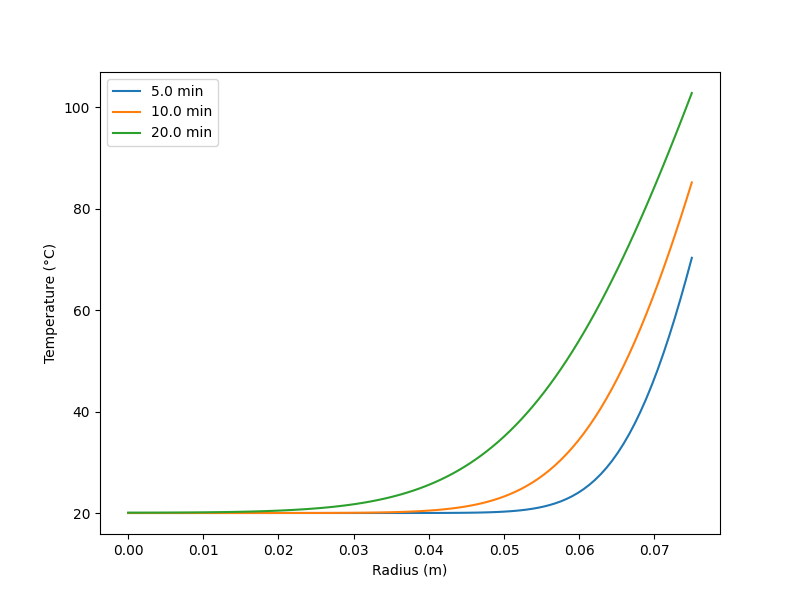
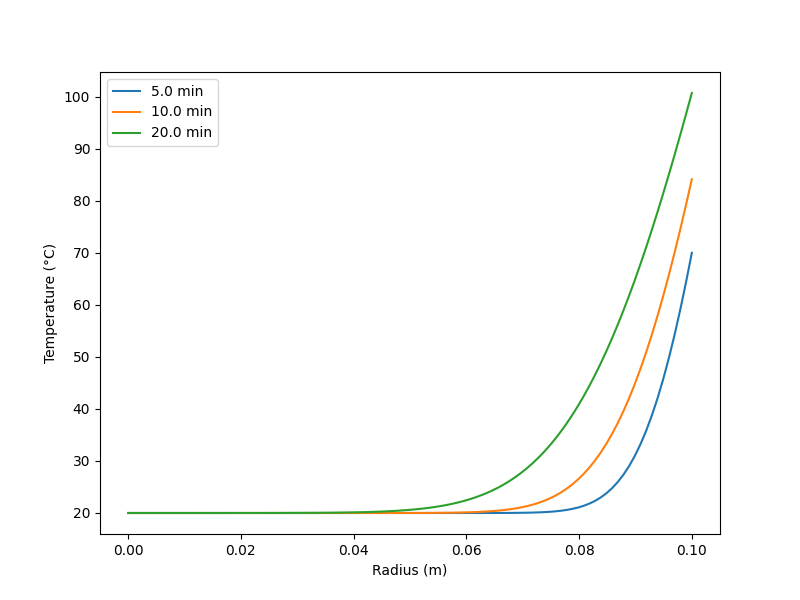
calculate

diff --git a/Lesson Seven/cal.py b/Lesson Seven/cal.py
@@ -11,11 +11,26 @@ alpha = k / (rho * c)  # 热扩散率
 R_list = [0.05, 0.075, 0.1]  # 鸡块半径 (m)
 Nr = 100     # 空间网格数
 dt = 0.1    # 时间步长 (秒)
-total_time = 1200  # 总模拟时间 (秒)
+total_time = 2000  # 总模拟时间 (秒)
 
 # 环境参数
 T_env = 180  # 环境温度 (°C)
 h = 25       # 对流换热系数 (W/m²·K)
+
+
+#configuration
+#半径范围
+config_R_list =[]
+config_R_list.append(0.06)
+config_R_list.append(0.08)
+config_R_list.append(0.12)
+config_R_list.append(0.14)
+config_R_list.append(0.16)
+config_R_list.append(0.18)
+config_R_list.extend(np.arange(0.20,1.0,0.05))
+#时间变化的R值
+selected_R = 0.05
+
 
 
 
@@ -24,6 +39,8 @@ def solve_heat_equation(R):
     r = np.linspace(0, R, Nr)
     T = np.ones(Nr) * 20 
     snapshots = {}
+    surface_temps = []  
+    time_points = []   
     
     for step in range(int(total_time/dt) + 1):
         t = step * dt  
@@ -36,22 +53,72 @@ def solve_heat_equation(R):
         T_new[0] = T_new[1]  
         T_new[-1] = (h * T_env * dr + k * T_new[-2]) / (h * dr + k)
         T = T_new
-        if t in [300, 600, 1200]:
+        surface_temps.append(T[-1])  
+        time_points.append(t)
+        
+        if any(abs(t - target) < dt/2 for target in [300, 600, 1200]):
             snapshots[t] = T.copy()
 
-    return r, snapshots
+    return r, snapshots, np.array(surface_temps), np.array(time_points) 
 
-for idx, R in enumerate(R_list):
-    r, snapshots = solve_heat_equation(R)
+
+def solve_heat_time(R, target_time):
+    dr = R / (Nr - 1)
+    r = np.linspace(0, R, Nr)
+    T = np.ones(Nr) * 20
+    total_steps = int(target_time / dt) + 1
     
+    for step in range(total_steps):
+        t = step * dt
+        T_new = T.copy()
+        for i in range(1, Nr-1):
+            term1 = (T[i+1] - 2*T[i] + T[i-1]) / dr**2
+            term2 = (T[i+1] - T[i-1]) / (2*dr * r[i]) if r[i] != 0 else 0
+            T_new[i] = T[i] + alpha * dt * (term1 + 2*term2)
+        
+        T_new[0] = T_new[1]
+        surface_temp = (h * T_env * dr + k * T_new[-2]) / (h * dr + k)
+        T_new[-1] = surface_temp
+        
+        T = T_new
+        if abs(t - target_time) < dt/2:
+            return surface_temp  
+    
+    return T[-1]  
+
+
+r, snapshots, t, T_surface = solve_heat_equation(selected_R)
+
+plt.figure(figsize=(10, 6))
+plt.plot(t/60, T_surface, '-', lw=1, alpha=0.7) 
+plt.scatter(t[::100]/60, T_surface[::100], s=20, c='r',  
+            label=f'Δt={dt*100}s') 
+
+plt.xlabel('Time (minutes)')
+plt.ylabel('Surface Temperature (°C)')
+plt.title(f'')
+plt.axhline(180, c='gray', ls='--', label='Critical Temp (180°C)')
+plt.legend()
+plt.grid()
+plt.savefig(f'./surface_temp_R{int(selected_R*100)}cm.png')
+plt.close()
+
+
+def plot_radius_impact():
     plt.figure(figsize=(8, 6))
-    for time, data in snapshots.items():
-        plt.plot(r, data, label=f'{time//60} min')
-    
-    plt.title(f'')
+    T_list = []
+    for R in config_R_list:
+        temp = solve_heat_time(R, 600)
+        T_list.append(temp)
+    plt.plot(config_R_list, T_list,label='Surface Temperature', marker='o', color='blue')
+    plt.title('Temperature vs Radius at t=600s')
     plt.xlabel('Radius (m)')
-    plt.grid(False)
     plt.ylabel('Temperature (°C)')
     plt.legend()
-    plt.savefig(f'./heat_distribution{idx+1}.png')  
+    plt.grid()
+    plt.savefig('./radius_impact.png')
     plt.close()
+
+if __name__ == "__main__":
+    plot_radius_impact()
+
